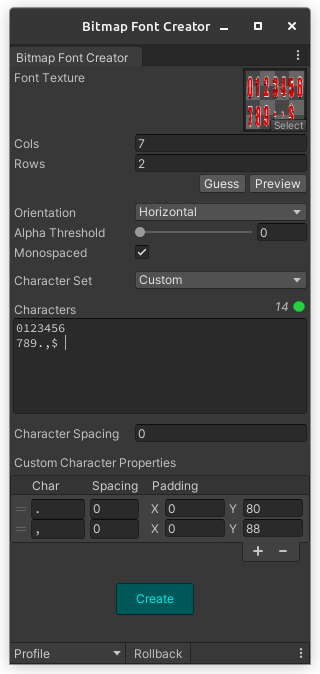
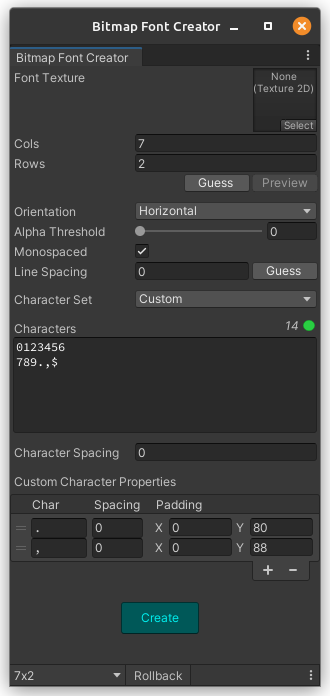
Added: Guess line spacing button

diff --git a/Editor/UI/BitmapFontCreatorEditor.cs b/Editor/UI/BitmapFontCreatorEditor.cs
@@ -19,7 +19,7 @@ namespace dev.klebersilva.tools.bitmapfontcreator
 		private Vector2 _mainScrollPos = Vector2.zero;
 		private int _selectedCharacterSetIndex = 0;
 
-		private Vector2Int _guessCache;
+		private Vector2Int _guessRowsColsCache;
 
 		[MenuItem(MenuItemPath)]
 		public static void ShowWindow()
@@ -58,12 +58,17 @@ namespace dev.klebersilva.tools.bitmapfontcreator
 
 			DrawTextureField();
 
+			EditorGUI.BeginChangeCheck();
 			_data.Cols = EditorGUILayout.IntField(UI.Cols, _data.Cols);
+			if (EditorGUI.EndChangeCheck()) _data.Cols = Mathf.Max(1, _data.Cols);
+
+			EditorGUI.BeginChangeCheck();
 			_data.Rows = EditorGUILayout.IntField(UI.Rows, _data.Rows);
+			if (EditorGUI.EndChangeCheck()) _data.Rows = Mathf.Max(1, _data.Rows);
 
 			GUILayout.BeginHorizontal();
 			GUILayout.FlexibleSpace();
-			if (GUILayout.Button(UI.GuessButton)) GuessRowsAndCols();
+			if (GUILayout.Button(UI.GuessRowsAndColsButton, Styles.MiniButton)) GuessRowsAndCols();
 			var showPreview = DrawPreviewButton();
 			GUILayout.EndHorizontal();
 
@@ -71,7 +76,11 @@ namespace dev.klebersilva.tools.bitmapfontcreator
 			_data.Orientation = (Orientation)EditorGUILayout.EnumPopup(UI.Orientation, _data.Orientation);
 			_data.AlphaThreshold = EditorGUILayout.Slider(UI.AlphaThreshold, _data.AlphaThreshold, 0f, 1f);
 			_data.Monospaced = EditorGUILayout.Toggle(UI.Monospaced, _data.Monospaced);
+
+			GUILayout.BeginHorizontal();
 			_data.LineSpacing = EditorGUILayout.FloatField(UI.LineSpacing, _data.LineSpacing);
+			if (GUILayout.Button(UI.GuessLineSpacingButton, Styles.MiniButton)) GuessLineSpacing();
+			GUILayout.EndHorizontal();
 
 			EditorGUILayout.Space();
 			DrawCharacterSetDropDown();
@@ -108,14 +117,13 @@ namespace dev.klebersilva.tools.bitmapfontcreator
 		{
 			EditorGUI.BeginChangeCheck();
 			_data.Texture = EditorGUILayout.ObjectField(UI.Texture, _data.Texture, typeof(Texture2D), false) as Texture2D;
-			if (EditorGUI.EndChangeCheck())
-				_guessCache = Vector2Int.zero;
+			if (EditorGUI.EndChangeCheck()) _guessRowsColsCache = Vector2Int.zero;
 		}
 
 		private bool DrawPreviewButton()
 		{
 			GUI.enabled = _data.Texture != null && _data.Rows > 0 && _data.Cols > 0;
-			var value = GUILayout.Button(UI.PreviewButton);
+			var value = GUILayout.Button(UI.PreviewButton, Styles.MiniButton);
 			GUI.enabled = true;
 			return value;
 		}
@@ -184,12 +192,28 @@ namespace dev.klebersilva.tools.bitmapfontcreator
 				return;
 			}
 
-			_guessCache = _guessCache.x == 0 || _guessCache.y == 0
+			_guessRowsColsCache = _guessRowsColsCache.x == 0 || _guessRowsColsCache.y == 0
 				? BitmapFontCreator.GuessRowsAndCols(_data.Texture)
-				: _guessCache;
+				: _guessRowsColsCache;
 
-			_data.Cols = _guessCache.y;
-			_data.Rows = _guessCache.x;
+			_data.Cols = _guessRowsColsCache.y;
+			_data.Rows = _guessRowsColsCache.x;
+		}
+
+		private void GuessLineSpacing()
+		{
+			if (_data.Texture == null)
+			{
+				Debug.LogWarning("Texture cannot be null");
+				return;
+			}
+			if (_data.Cols <= 0 || _data.Rows <= 0)
+			{
+				Debug.LogWarning("Rows and Cols must be greater than 0");
+				return;
+			}
+
+			_data.LineSpacing = BitmapFontCreator.GuessLineSpacing(_data.Texture, _data.Rows);
 		}
 	}
 }

diff --git a/Editor/UI/UIModel.cs b/Editor/UI/UIModel.cs
@@ -27,7 +27,8 @@ namespace dev.klebersilva.tools.bitmapfontcreator
 		public static readonly GUIContent Orientation = new("Orientation", "Order to look up for characters in the texture");
 		public static readonly GUIContent Cols = new("Cols", "Number of columns in the texture");
 		public static readonly GUIContent Rows = new("Rows", "Number of rows in the texture");
-		public static readonly GUIContent GuessButton = new("Guess", "Guess Rows and Cols");
+		public static readonly GUIContent GuessRowsAndColsButton = new("Guess", "Guess the number of rows and columns of the texture based on transparency gaps");
+		public static readonly GUIContent GuessLineSpacingButton = new("Guess", "Guess Line Spacing based on the texture and the number of rows");
 		public static readonly GUIContent PreviewButton = new("Preview", "Preview the texture with current rows and cols");
 		public static readonly GUIContent AlphaThreshold = new("Alpha Threshold", "Alpha threshold to identify characters bounds");
 		public static readonly GUIContent Monospaced = new("Monospaced", "Whether the result font should be monospaced");
@@ -145,6 +146,11 @@ namespace dev.klebersilva.tools.bitmapfontcreator
 		public static readonly GUIStyle Toolbar = new("TimeAreaToolbar")
 		{
 			fixedHeight = 24,
+		};
+
+		public static readonly GUIStyle MiniButton = new(EditorStyles.miniButton)
+		{
+			fixedWidth = 66,
 		};
 	}
 }

diff --git a/Editor/BitmapFontCreator.cs b/Editor/BitmapFontCreator.cs
@@ -287,5 +287,10 @@ namespace dev.klebersilva.tools.bitmapfontcreator
 
 			return new(rows, cols);
 		}
+
+		public static int GuessLineSpacing(Texture2D texture, int rows)
+		{
+			return Mathf.RoundToInt(texture.height / rows);
+		}
 	}
 }

diff --git a/README.md b/README.md
@@ -44,7 +44,8 @@ Preferences are saved in the editor using _EditorPrefs_.
 -  **Preview**: Preview the texture with current rows and cols. ![Preview Window](./Documentation/screenshot-02.png)
    -  **Background**: Background color of the preview.
    -  **Grid**: Grid color of the preview.
--  **Guess**: Guess the number of rows and columns of the texture based on transparency gaps.
+-  **Guess (Rows and Cols)**: Guess the number of rows and columns of the texture based on transparency gaps.
+-  **Guess (Line Spacing)**: Guess Line Spacing based on the texture and the number of rows.
 -  **Create**: Creates the font using the given settings.
 -  **Rollback**: Rollback settings to the selected profile or default if none is selected.
 

diff --git a/CHANGELOG.md b/CHANGELOG.md
@@ -10,7 +10,8 @@ and this project adheres to [Semantic Versioning](https://semver.org/spec/v2.0.0
 ### Added
 
 -  Texture preview window
--  Line spacing
+-  Line spacing property
+-  Guess line spacing button
 -  Custom character padding
 -  Support to TextMesh
 
@@ -23,6 +24,8 @@ and this project adheres to [Semantic Versioning](https://semver.org/spec/v2.0.0
 -  Settings were not being saved
 -  Properly getting bearing values for characters
 -  Save profile window position
+
+---
 
 ## [1.2.1]
 
